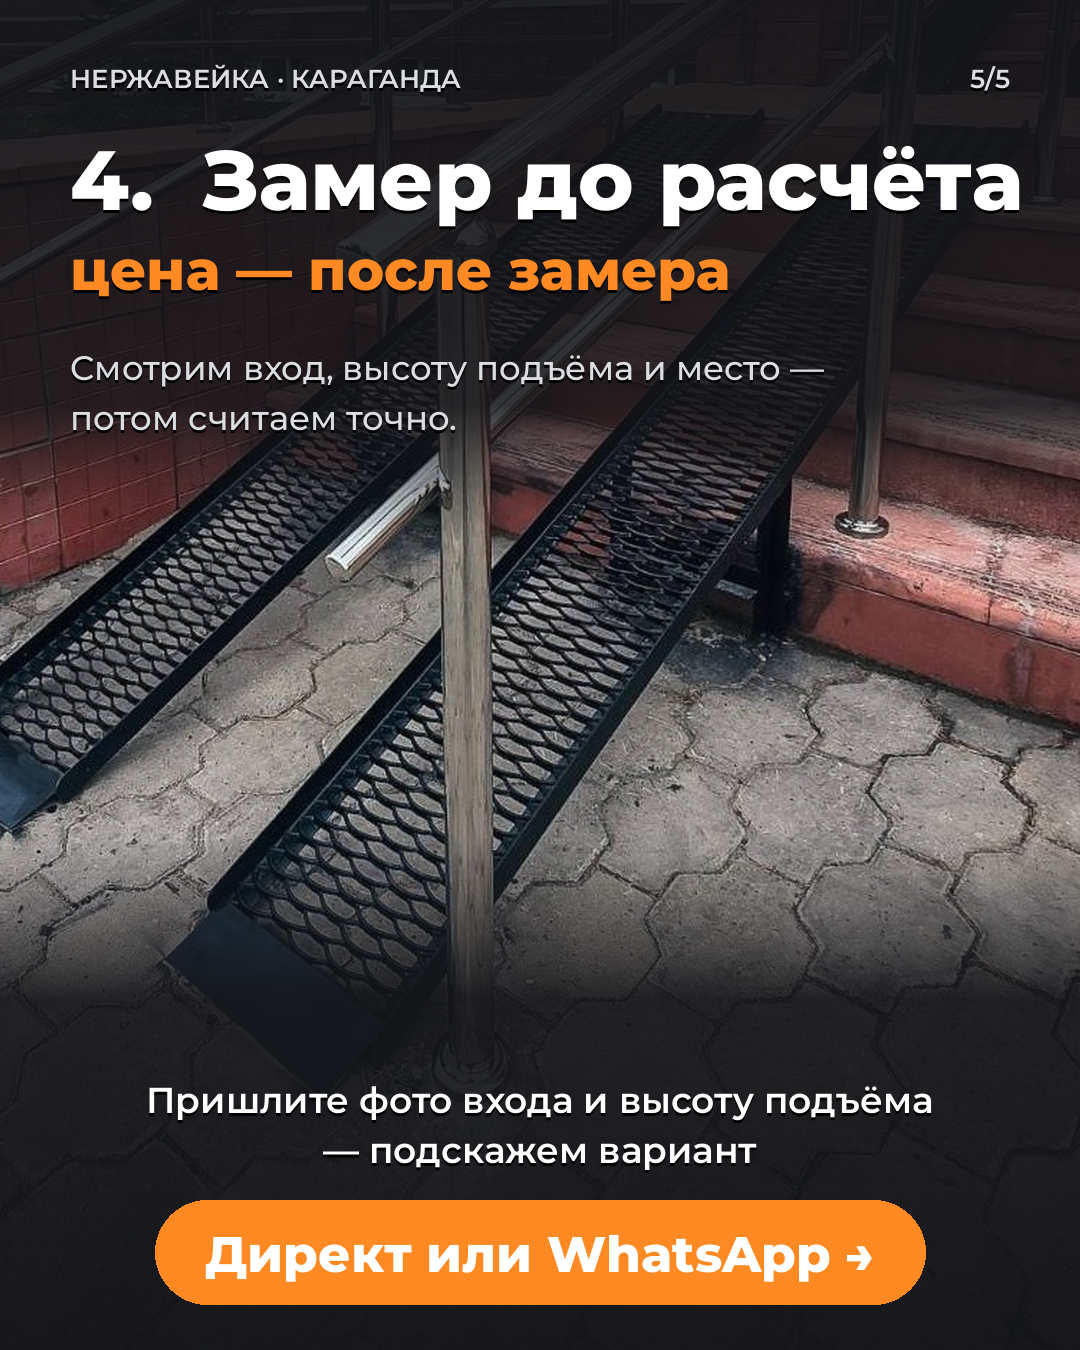
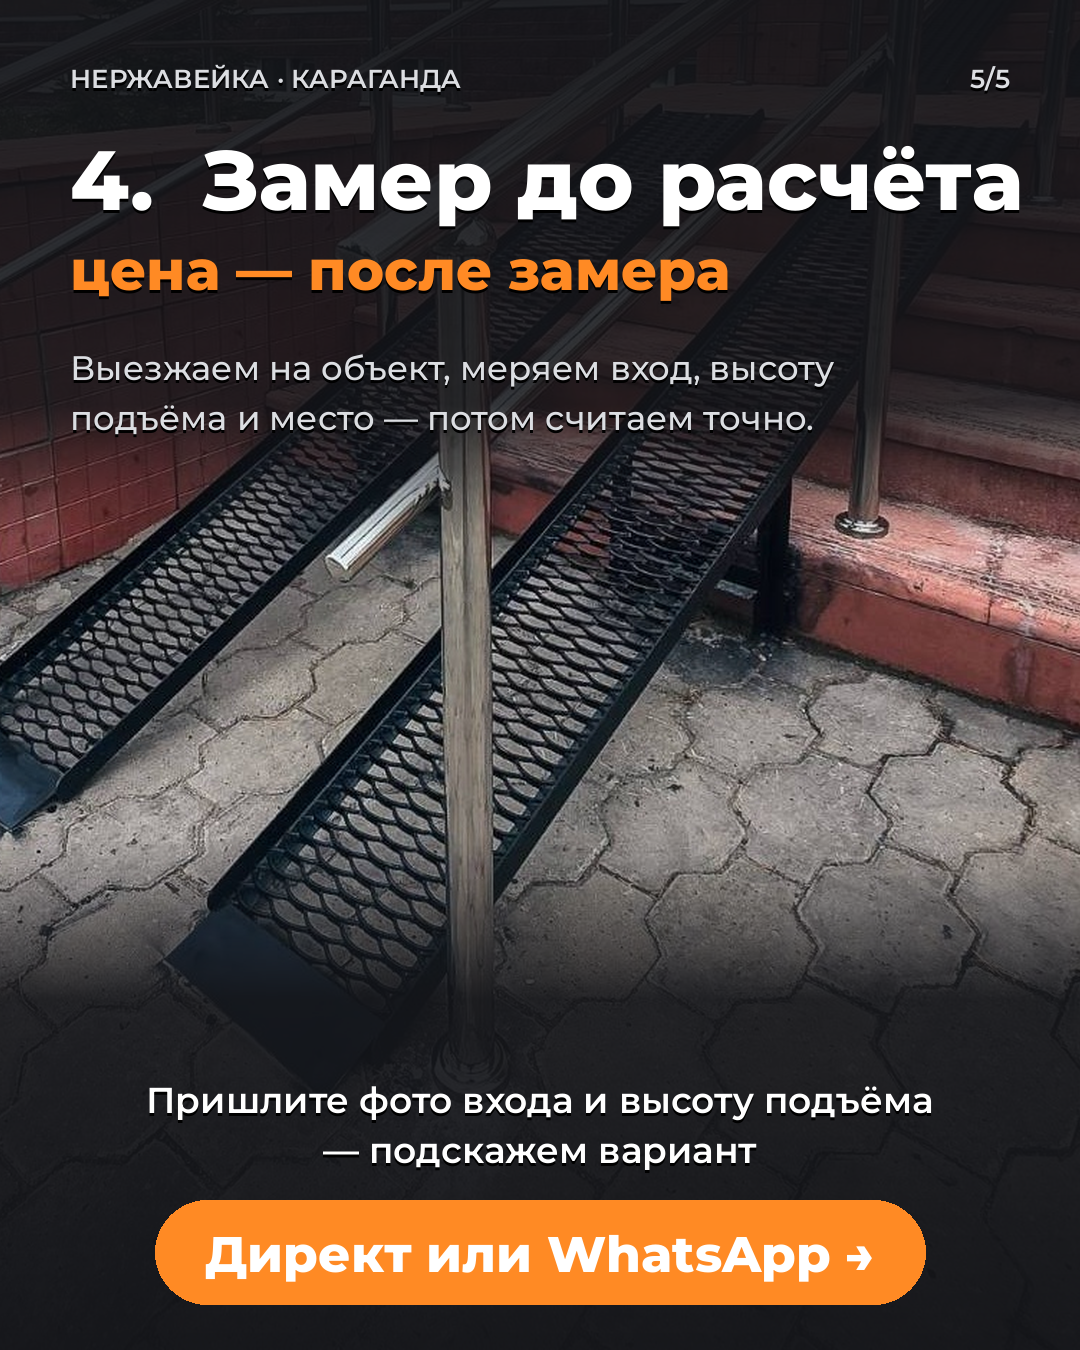
Ramp carousel: AISI 304/201, no curb, on-site measurement
Claude-Session: https://claude.ai/code/session_01WpjTYCbrJZsAU7gXfc5YbY

Changed region(s): [[0.0611, 0.2489, 0.7639, 0.3422]]

diff --git a/tools/creatives/render_ramp.py b/tools/creatives/render_ramp.py
@@ -69,10 +69,10 @@ def ig2():
     img, d = canvas("stairs-public.jpg", 1080, 1350, (0.5, 0.55), [(0, 0.9), (0.2, 0.75), (0.3, 0), (0.62, 0), (0.74, 0.92), (1, 0.97)])
     head(d, 1080, "2/5")
     title(d, 210, "1.", "Где стоит", "улица или помещение")
-    text(d, (M, 1080), "Улица — нержавейка 304:", font("Bold", 38), WHITE, "ls")
+    text(d, (M, 1080), "Улица — нержавейка AISI 304:", font("Bold", 38), WHITE, "ls")
     para(d, 1130, ["держит дождь, снег и реагенты"])
-    text(d, (M, 1215), "Помещение — можно дешевле:", font("Bold", 38), WHITE, "ls")
-    para(d, 1265, ["марка 201 или крашеный металл"])
+    text(d, (M, 1215), "Помещение — AISI 201:", font("Bold", 38), WHITE, "ls")
+    para(d, 1265, ["в сухом месте дешевле и служит долго"])
     return img
 
 
@@ -120,8 +120,7 @@ def ig4():
     band(img, photo("porch-house.jpg"), 330, 760, (0.6, 0.55), fade=120)
     head(d, 1080, "4/5")
     title(d, 210, "3.", "Поручни", "с одной или двух сторон")
-    para(d, 1140, ["Поручень — опора на всём подъёме.",
-                   "Бортик — чтобы колесо не соскочило.",
+    para(d, 1160, ["Поручень — опора на всём подъёме.",
                    "Высоту подбираем по нормам на замере."], size=34, step=52)
     return img
 
@@ -130,7 +129,7 @@ def ig5():
     img, d = canvas("ramp-detail.jpg", 1080, 1350, (0.5, 0.5), [(0, 0.94), (0.3, 0.85), (0.4, 0), (0.62, 0), (0.74, 0.9), (1, 0.97)])
     head(d, 1080, "5/5")
     title(d, 210, "4.", "Замер до расчёта", "цена — после замера")
-    para(d, 380, ["Смотрим вход, высоту подъёма и место —", "потом считаем точно."], size=34, step=50)
+    para(d, 380, ["Выезжаем на объект, меряем вход, высоту", "подъёма и место — потом считаем точно."], size=34, step=50)
     text(d, (540, 1100), "Пришлите фото входа и высоту подъёма", font("SemiBold", 36), WHITE, "mm")
     text(d, (540, 1150), "— подскажем вариант", font("SemiBold", 36), WHITE, "mm")
     button(d, 540, 1200, "Директ или WhatsApp →", font("ExtraBold", 50))
